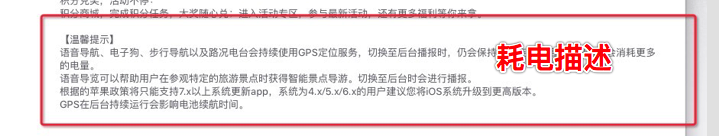
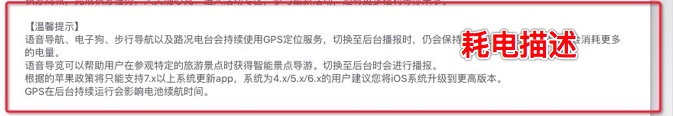
优化排版

diff --git a/README.md b/README.md
@@ -247,12 +247,9 @@ ____
 
 
 ##解决方案:
-**删掉重建应用,修改应用bundleid,重新上传,即可提交!qq群网友提供 的解决方案这是一个bug,待苹果修复,**
-<img src="Picture/selectimage/cannotSelectimageSolve.png" width="100%">
-<img src="Picture/selectimage/cannot_select.png" width="100%">
-
-
-
+- 1)删掉重建应用,修改应用bundleid,重新上传,即可提交!qq群网友提供 的解决方案
+- 2) 修改语言为英文或者中文
+这是一个bug,待苹果修复,现在貌似已经修复了
 
 ____
 
@@ -268,25 +265,19 @@ ____
 方案2)学习58同城,让用户去网站购买产品,买了产品的账号到移动端使用功能
 方案3)就老老实实的做内购吧.莫别的招了
 
-
-
-
 ____
-
-#📣问题:苹果审核通过后包体大了200多MB?怎么回事?
-
-
-##答案:
-[【链接】苹果审核通过后包体大了200多MB！都是Xcode7的](http://www.youxituoluo.com/95823.html)  这个链接可以解答大家的你问
-____
-
 ____
 
 #📣问题:微信支付,登陆,分享没安装微信,提示下载微信被拒绝怎么办?
 
 ##解决方案:
-- 1)如果审核的时候有这种被拒绝,那么你需要
-
+- 1)如果审核的时候有这种被拒绝,那么你需要在审核的时候让审核的人员在测试机器上没安装微信的情况下看不到你的微信支付,微信登录,分享!
+- 2)怎么让苹果审核人员看不到微信?粗暴点的方法: 自己公司写接口,审核的时候后台放回yes ,隐藏这些微信相关的,审核通过打开这些还有更优雅的做法
+像友盟所做的先判断是否安装微信,没有安装微信隐藏微信分享,微信登录,微信支付等功能,友盟官网说的:
+`
+由于苹果审核政策需求，建议大家对未安装客户端平台进行隐藏，在设置QQ、微信AppID之后调用下面的方法，[UMSocialConfig hiddenNotInstallPlatforms:@[UMShareToQQ, UMShareToQzone, UMShareToWechatSession, UMShareToWechatTimeline]]; 这个接口只对默认分享面板平台有隐藏功能，自定义分享面板或登录按钮需要自己处理 友盟分享sdk5.2.1已经兼容ipv6，请大家升级sdk，避免无法通过APPstore审核>
+`
+这种思想一样可以用到微信支付,微信登陆
 ____
 
 
